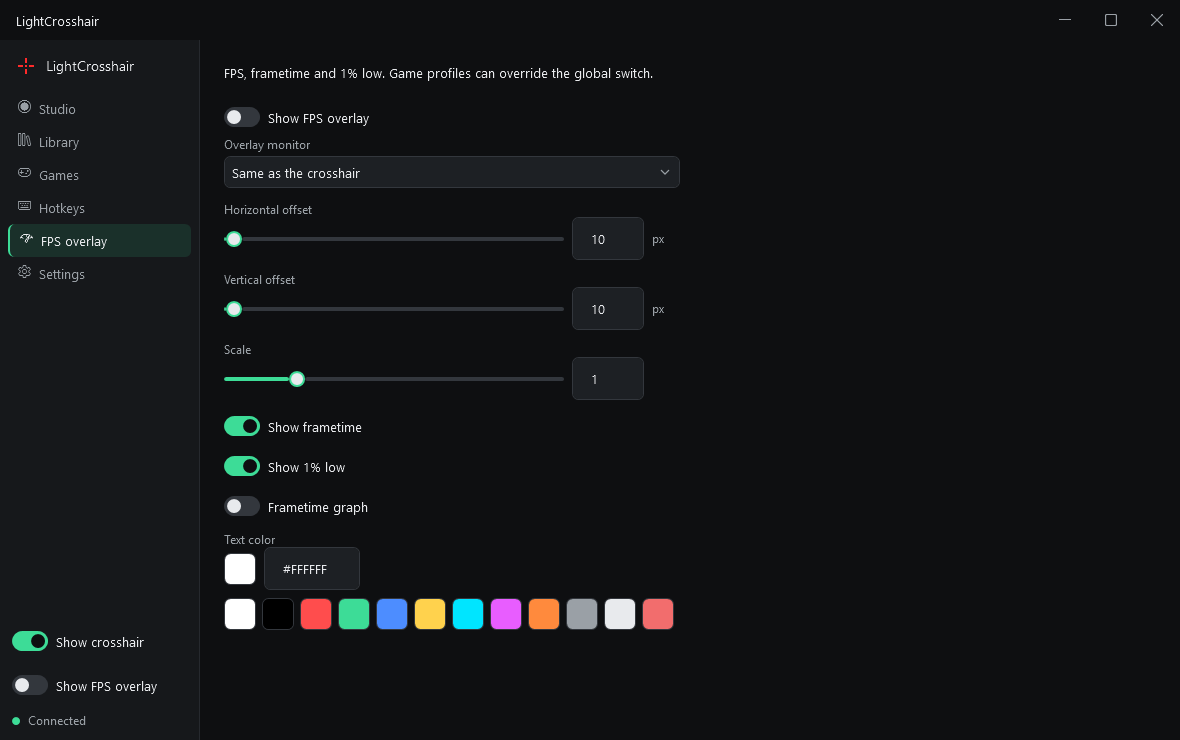
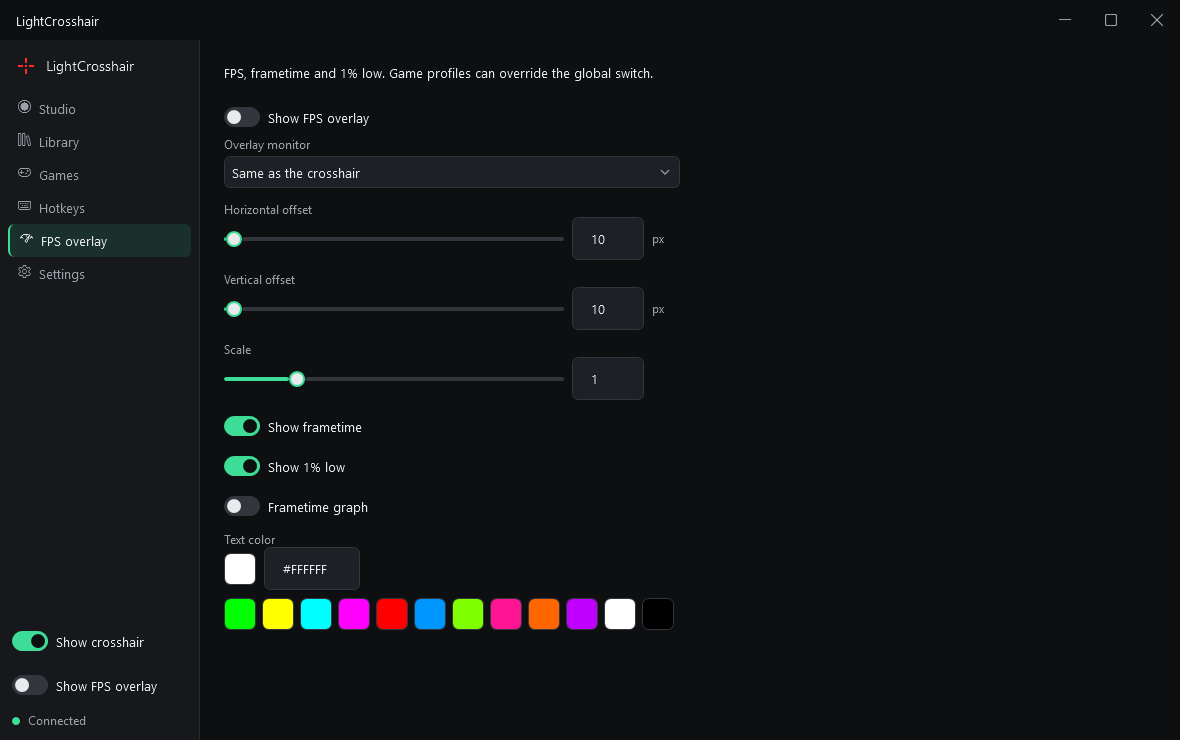
Document the second test round: graph, pencil, colors, centering, smooth edges
OPEN-ITEMS records each new item with its cause, fix and evidence; SETTINGS and
CHANGELOG describe the new behavior; Studio, Library and FPS screenshots show the
high-contrast swatches.

Changed region(s): [[0.1831, 0.8081, 0.5797, 0.8703]]

diff --git a/docs/SETTINGS.md b/docs/SETTINGS.md
@@ -23,20 +23,20 @@ The layer list supports adding, selecting, hiding, duplicating, deleting and reo
 | Thickness | Stroke width for Arms, Ring and Box, 1–64 px |
 | Gap | Empty center for Arms; open sections of a Box create corner brackets, 0–128 px |
 | Arms | Enable Top, Right, Bottom and Left independently; rotation can produce an X |
-| Color | Vector fill/stroke color in hexadecimal RGB; images retain their PNG colors |
+| Color | Vector fill/stroke color in hexadecimal RGB; images retain their PNG colors. The 12 swatches are high-contrast crosshair colors (neon green, neon yellow, cyan, fuchsia, red, electric blue, chartreuse, hot pink, neon orange, electric purple, white, black) |
 | Fill | Optional independent interior color for Ring and Box |
 | Opacity | Whole layer opacity, 0–100%, including its outline and fill |
 | Offset X / Y | Layer position relative to the crosshair center; editor range −128 to +128 px |
 | Rotation | Layer rotation; editor range −180° to +180° |
 | Outline | Enable an outline, choose its color and thickness, 1–8 px |
 | Image scale / Import image | Scale a PNG from 0.1× to 4×, or choose its source image |
-| Anti-alias | Smooth edges for the whole design; disable for crisp integer-pixel geometry |
+| Smooth edges | Rounds and antialiases arm ends and outline corners, and antialiases rings, dots and rotated shapes. Off: crisp, square integer-pixel geometry |
 
-The controls shown depend on the selected kind. An odd-width stroke centers on the center pixel; an even-width stroke uses its extra pixel down/right. Imported designs are validated by Core; the table describes the editor's controls.
+The controls shown depend on the selected kind. Every shape is drawn symmetric around its center: an odd width or size centers on the center pixel, an even one on the corner between the four center pixels, and arms keep the same gap on every side. Imported designs are validated by Core; the table describes the editor's controls.
 
 ### Preview
 
-Zoom at 1×, 2× or 4× and choose dark, mid, light, checkerboard or a custom background. Background and zoom are preview aids; they do not change the in-game background or crosshair size. Preview uses the same renderer as the overlay.
+Zoom at Fit, 1×, 2× or 4× (a zoom larger than the preview opens centered on the crosshair) and choose dark, mid, light, checkerboard or a custom background. Background and zoom are preview aids; they do not change the in-game background or crosshair size. Preview uses the same renderer as the overlay.
 
 **Live in game** sends the current editable design to the overlay, temporarily overriding global visibility. It does not save the design. Turning it off, disconnecting settings or leaving it without an update for ten minutes ends the temporary preview. Use Save to retain edits.
 
@@ -46,7 +46,7 @@ PNG import accepts a PNG file up to 2 MiB and 512 pixels on either side. It is c
 
 **My crosshairs** contains saved designs; **Presets** is a gallery of 30 bundled designs. Search by name and use tag filters to narrow the lists. Click a preset to **Use** it: accept or change the suggested name and press Enter to save and activate your copy; Esc cancels. The bundled original stays unchanged. If a copy of that preset already exists, you can reuse it.
 
-Click a saved crosshair to use it in the current context; cards show **In use · game name** and **Default** assignments. **Set as default for all apps** deliberately changes the default even while a game is active. Choose Edit, or double-click, to open Studio. The saved-card menu offers Use, Set as default for all apps, Edit, Duplicate, Favorite, Export and Delete. A crosshair used as the default or assigned to a game cannot be deleted until its assignments are changed.
+Click a saved crosshair to use it in the current context; cards show **In use · game name** and **Default** assignments. **Set as default for all apps** deliberately changes the default even while a game is active. The pencil, Edit in the menu, or a double-click opens that crosshair in Studio (asking first if Studio has unsaved changes). The saved-card menu offers Use, Set as default for all apps, Edit, Duplicate, Favorite, Export and Delete. A crosshair used as the default or assigned to a game cannot be deleted until its assignments are changed.
 
 Next/previous hotkeys cycle favorites only when at least two exist. With zero or one favorite, they cycle all saved crosshairs. The order matches Library (most recently updated first); gallery presets are included only after a copy is saved. Cycling persists into the active enabled game profile or, outside a configured game, the default. Leaving a game restores the default selection without losing that game's saved choice.
 
@@ -136,7 +136,7 @@ Open **FPS overlay** in the sidebar (between Hotkeys and Settings). Use **Show F
 | Offset X / Y | Position from that monitor's top-left corner; editor range 0–2000 px |
 | Scale | Text/overlay scale, 0.5×–3× |
 | Frametime / 1% low | Show or hide the additional values |
-| Frametime graph | Off by default. Show about two seconds of peak frametimes under the numbers, at at most 20 redraws/s. With the graph off, unchanged numbers cause no redraw; with the overlay off, capture and its timer stop. |
+| Frametime graph | Off by default. Show about two seconds of peak frametimes under the numbers as a continuous scrolling line, drawn 0.2 s behind real time, at most 20 redraws/s. With the graph off, unchanged numbers cause no redraw; with the overlay off, capture and its timer stop. |
 | Text color / Background color | Hexadecimal RGB colors |
 | Use a different color for the graph | Off: the graph uses the text color. On: choose a graph color |
 | Background opacity | Background transparency, 0–100% |

diff --git a/docs/v2/OPEN-ITEMS.md b/docs/v2/OPEN-ITEMS.md
@@ -58,6 +58,17 @@ Everything else in [TODO.md](TODO.md) and [RELEASE-CHECKLIST.md](RELEASE-CHECKLI
 - Expected: smooth live preview while dragging (no flicker), the released value stays applied, and saving applies it immediately in the current context (game in foreground or global), without restarting the game.
 - Likely areas: `previewDisplayColors` ending/restoring between throttled updates, the recovery journal capture racing with the preview, apply only on foreground change. Compare with how 1.9 applied changes from the settings window.
 
+## Second in-game test (2026-11-17)
+
+Lorenzo confirmed: hide while aiming on right mouse, display colors (vibrance and others), FPS overlay and monitor change work. New items, all fixed:
+
+- **Frametime graph drawn in chunks.** Cause: the ETW real-time session delivered present events about once a second. Fix: flush every 50 ms while capturing; draw 200 ms behind real time. `scripts/perf/fps-graph-freshness-smoke.ps1` on a DX12 window: newest sample up to 1999 ms old without the flush, at most 177 ms (average 116 ms) with it. Lorenzo: check the line looks continuous.
+- **Library pencil did nothing.** It loaded the design into Studio but stayed on Library. Now pencil, menu Edit and double-click open Studio on that crosshair (asking first about unsaved Studio edits). Verified in the published UI (pencil → Studio with that design) and a UI test.
+- **High-contrast default colors.** The 12 swatches are now neon green, neon yellow, cyan, fuchsia, red, electric blue, chartreuse, hot pink, neon orange, electric purple, white and black (presets already used pure colors).
+- **Crosshairs not perfectly centered.** Causes: even-width arms started one pixel closer on the right/bottom, and GDI+ rasterized small curves and antialiased edges unevenly. Fix: symmetric arm placement and an own signed-distance rasterizer for upright shapes (GDI+ kept for images and free rotations). A test mirrors every shape for widths 1–6, gaps 0–7, four sizes, crisp and smooth; render time 3.5 ms median for a heavy four-layer design.
+- **Smooth edges did nothing on crosses.** Now (Lorenzo's choice) it rounds and antialiases arm ends and outline corners; rings, dots and rotations stay antialiased; off = crisp square pixels.
+- Also: the 4× Studio preview opened at its top-left corner; it now opens centered on the crosshair.
+
 ## After the fixes
 
 Build for the retest: `releases/LightCrosshair-v2.0.0-win-x64/LightCrosshair.exe` and `setup/Output/LightCrosshair-Setup-2.0.0.exe` (2026-11-17). Not checked here: Fortnite/EAC itself, NVIDIA hardware, HDR.

diff --git a/CHANGELOG.md b/CHANGELOG.md
@@ -35,6 +35,9 @@
 - Each binding is one control: a capture field with a ▾ menu of mouse buttons, on every hotkey row and in Games. Game overrides are Use global / Off in this game / Custom and save immediately.
 - Read mouse bindings from raw input instead of a low-level mouse hook, and let a hold match while extra modifiers are held (sprint/crouch while aiming).
 - Switch display colors in place: slider previews no longer flash the previous colors, the released value stays, saved colors apply immediately while the game runs, and colors are re-applied on every foreground change.
+- Draw the frametime graph as a continuous line: present events are flushed every 50 ms instead of arriving in one-second batches.
+- Draw every crosshair shape exactly symmetric (even-width arms were one pixel closer on the right/bottom; small dots, rings and antialiased edges were lopsided). Smooth edges now rounds arm ends and outline corners.
+- The Library pencil opens that crosshair in Studio; color swatches are high-contrast crosshair colors; the zoomed Studio preview opens centered.
 - Confirmations and errors use the in-app dialog (keyboard accessible, localized); no Windows message boxes remain.
 - Apply and recover AMD gamma through named display contexts, preserving each monitor's original ramp alongside ADL values. Report driver failures inline and keep the recovery journal until restoration succeeds.
 
